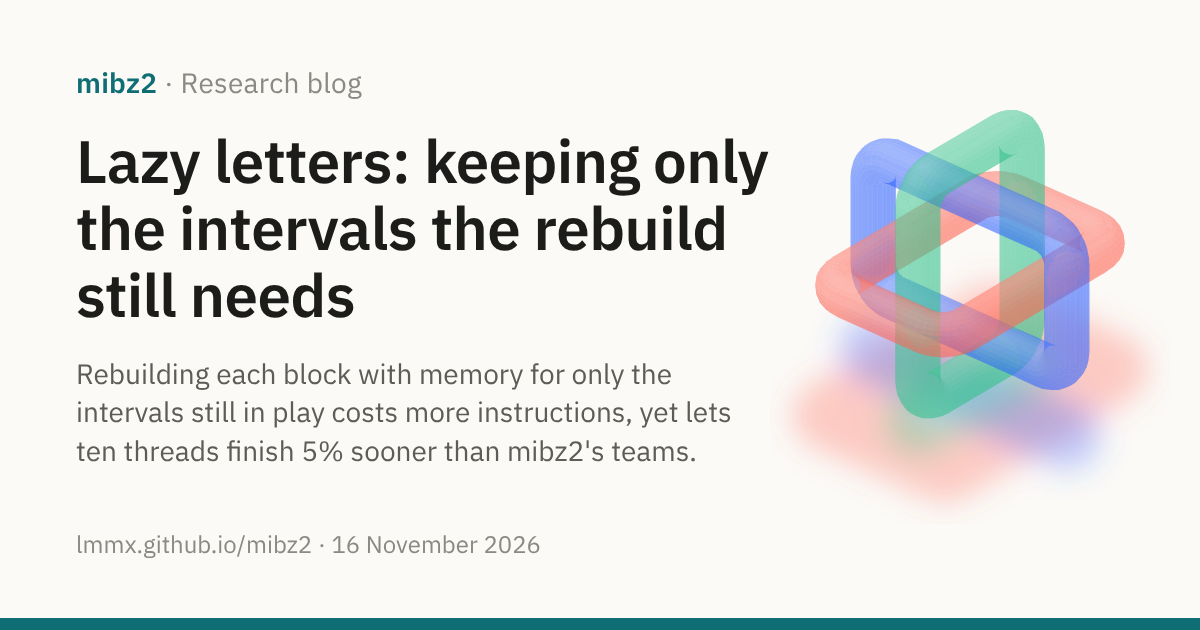
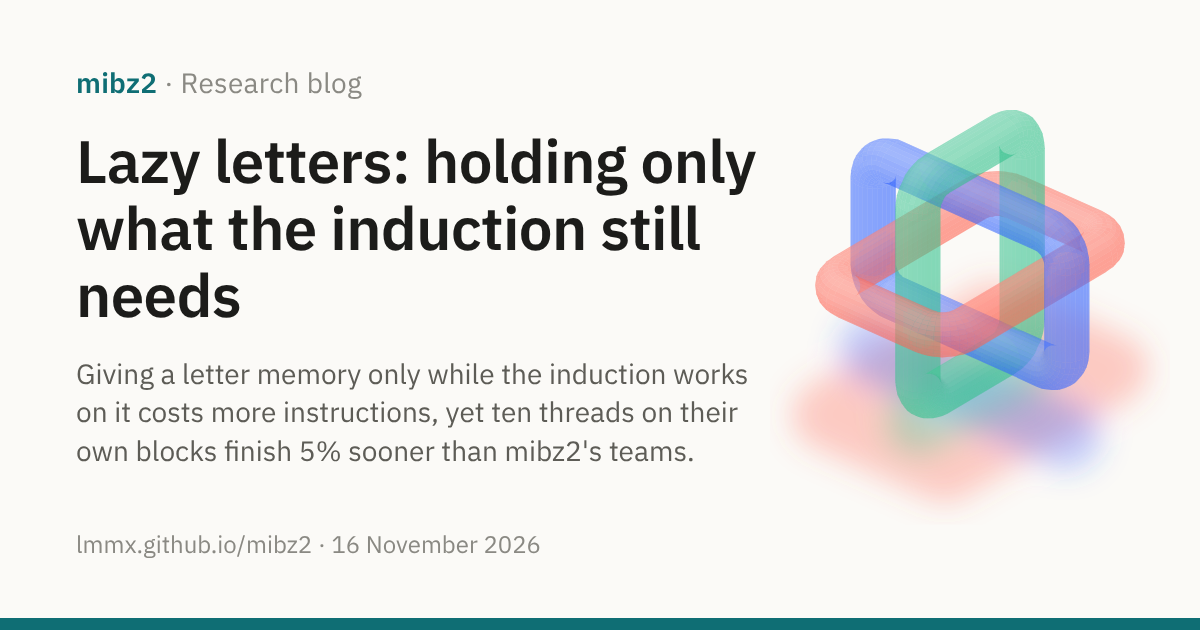
Lazy letters post: the relayed explanation's content, checked; new title and dek
Adds the two orders and their fronts, the 5-byte untouched letter and its three states
(redrawn as a site figure), the per-letter memory table with the output-buffer row, the
pool's reserved-versus-touched nuance, the cause left unisolated, and the order of steps
as the next question (0.107 r from #437; 0.077 r and 0.058 r simulated in #446).
Title and dek as amended; social card, cards.json, index and llms.txt redrawn to match.

Changed region(s): [[0.0617, 0.573, 0.6167, 0.754], [0.0617, 0.2111, 0.6475, 0.5127]]

diff --git a/docs/site/blog/2026-11-16-lazy-letters.md b/docs/site/blog/2026-11-16-lazy-letters.md
@@ -1,7 +1,7 @@
 ---
-title: "Lazy letters: keeping only the intervals the rebuild still needs"
+title: "Lazy letters: holding only what the induction still needs"
 image: assets/social/blog-2026-11-16-lazy-letters.png
-description: "Rebuilding each block with memory for only the intervals still in play costs more instructions, yet lets ten threads finish 5% sooner than mibz2's teams."
+description: "Giving a letter memory only while the induction works on it costs more instructions, yet ten threads on their own blocks finish 5% sooner than mibz2's teams."
 ---
 
 <div class="post-hero" markdown>
@@ -11,9 +11,9 @@ description: "Rebuilding each block with memory for only the intervals still in 
 [mibz2 · Research blog](index.md)
 {: .post-kicker }
 
-# Lazy letters: keeping only the intervals the rebuild still needs
+# Lazy letters: holding only what the induction still needs
 
-Rebuilding each block with memory for only the intervals still in play costs more instructions, yet lets ten threads finish 5% sooner than mibz2's teams.
+Giving a letter memory only while the induction works on it costs more instructions, yet ten threads on their own blocks finish 5% sooner than mibz2's teams.
 {: .post-dek }
 
 16 November 2026 · 11 min read · [Research result](#5-what-comes-next)
@@ -54,19 +54,36 @@ The two series differ only in what lazy letters is compared with. Below 10 threa
 
 ## 1. What does a block keep while it is rebuilt?
 
-Take ten letters of a block, part-way through the rebuild. Cells as shipped gave each of them a slot before the first step. A slot is 20 bytes in the kernel's own buffer. Cells also tracks the letters in a second order, and that costs 8 more bytes each in the output buffer. Most of those slots sit unused for most of the rebuild, because most letters are still untouched pieces of runs.
+Cells tracks the letters in two orders. The first is the order of the runs in the block. The second is the same runs sorted by byte value, keeping runs with the same byte in their original order. Each step works at the right-hand end of both orders, at what the code calls the two *fronts*. It compares the two letters there, records a *cell* (one piece of a word, added to a list of rules the writer later expands into text), and moves on. The fronts work backwards from the end, so at any moment most letters are still ahead of them, untouched.
+
+Cells as shipped gives every letter a slot before the first step. A slot is 20 bytes in the kernel's own buffer, holding the letter's length, its links and where its word is. A second slot, 8 bytes in the output buffer, holds its links in the other order. (The output buffer is free to use until the writer runs, at the very end.) Most of those slots sit unused for most of the rebuild, because most letters are still untouched pieces of runs.
+
+Lazy letters keep an untouched letter as 5 bytes in the output buffer instead. A 4-byte entry in the second order holds its length, its byte and whether the decoder's walk starts there. One more byte, in the first order, repeats its byte. That is all a step needs until a front first reaches the letter. The step itself is unchanged: the same cells, in the same order, written as the same words at the same places.
+
+<figure class="bf-fig">
+<p class="bf-title">How lazy letters keep a letter, from untouched to finished</p>
+<svg viewBox="0 0 720 304" role="img" aria-label="An untouched letter takes 5 bytes in the output buffer: a 4-byte entry holding its length, its byte and whether the walk starts there, in the second order, and 1 byte, its byte, in the first order. A letter goes from untouched (the 5-byte entry) to in play (a pair of slots from the pools, its entry pointing to them) to finished (the pair goes on a free list and is reused by the next letter reached)."><text x="0" y="16" class="bf-ts">An untouched letter, in the output buffer</text><rect x="0" y="30" width="520" height="70" rx="6" class="bf-slot"/><text x="260" y="56" class="bf-t-strong" text-anchor="middle">entry, 4 bytes</text><text x="260" y="78" class="bf-tm" text-anchor="middle">length · byte · whether the walk starts here</text><text x="260" y="94" class="bf-ttiny" text-anchor="middle">in the second order (sorted by byte)</text><rect x="528" y="30" width="130" height="70" rx="6" class="bf-slot"/><text x="593" y="56" class="bf-t-strong" text-anchor="middle">1 byte</text><text x="593" y="78" class="bf-tm" text-anchor="middle">its byte</text><text x="593" y="94" class="bf-ttiny" text-anchor="middle">in the first order</text><text x="720" y="70" class="bf-t-strong" text-anchor="end">5 B</text><path d="M0 124H720" class="bf-rule"/><text x="0" y="150" class="bf-ts">A letter’s three states</text><rect x="0" y="166" width="216" height="84" rx="6" class="bf-slot"/><text x="108" y="192" class="bf-t-strong" text-anchor="middle">Untouched</text><text x="108" y="214" class="bf-tm" text-anchor="middle">the 5-byte entry above</text><text x="108" y="234" class="bf-ttiny" text-anchor="middle">until a front first reaches it</text><path d="M220 208H242" class="bf-arrow"/><path d="M236 202L243 208L236 214" fill="none" class="bf-arrow"/><rect x="248" y="166" width="216" height="84" rx="6" class="bf-card-hi"/><text x="356" y="192" class="bf-t-strong" text-anchor="middle">In play</text><text x="356" y="214" class="bf-tm" text-anchor="middle">a pair of slots from the pools</text><text x="356" y="234" class="bf-ttiny" text-anchor="middle">its entry now points to the pair</text><path d="M468 208H490" class="bf-arrow"/><path d="M484 202L491 208L484 214" fill="none" class="bf-arrow"/><rect x="496" y="166" width="216" height="84" rx="6" class="bf-box" stroke-dasharray="4 3"/><text x="604" y="192" class="bf-t-strong" text-anchor="middle">Finished</text><text x="604" y="214" class="bf-tm" text-anchor="middle">the pair goes on the free list</text><text x="604" y="234" class="bf-ttiny" text-anchor="middle">the next letter reached reuses it</text><path d="M604 254V276H108V256" fill="none" class="bf-arrow" stroke-dasharray="4 3"/><path d="M102 262L108 254L114 262" fill="none" class="bf-arrow"/><text x="356" y="294" class="bf-ttiny" text-anchor="middle">a freed pair is handed to the next letter a front reaches (last in, first out)</text></svg>
+<figcaption>Conceptual. A letter costs 5 bytes until a front reaches it, then holds a pair of slots while it is in play. When it is finished (merged away at a step between two letters of equal length, or closed), its pair goes back on a last-in-first-out free list for the next letter a front reaches.</figcaption>
+</figure>
+
+Two facts, both in [the research journal](https://github.com/lmmx/mibz2/blob/caad2bd97e236905a15a970b3a3a945877b4316e/docs/journal/2026-11-15-lazy-letters.md), mean nothing else needs storing. First, within one byte value, the two orders list the letters in the same order. So a counter for each of the 256 byte values finds a letter's entry in the second order from its byte, with no stored map between the orders (which would cost another 4 bytes a letter). Second, a front reaches a letter first from one order only, and never reads that entry again. So the entry, once used, is overwritten with a tagged pointer to the letter's new slots, for the other front to follow when it gets there.
 
 <figure class="bf-fig">
 <p class="bf-title">What the rebuild keeps, eager and lazy</p>
 <svg viewBox="0 0 720 462" role="img" aria-label="Above, a conceptual sketch: eager Cells gives all ten intervals a slot before the first step; lazy letters give slots to three intervals the rebuild has reached, one slot has been given back, and the other six are 5-byte entries. Below, measured bytes per letter besides the output: eager 35.6 (slots 20, words 15.6); lazy 22.0 (pool 6.4, words 15.6)."><text x="0" y="16" class="bf-ts">Ten intervals of a block, part-way through the rebuild</text><text x="0" y="48" class="bf-t-strong">Eager (Cells as shipped)</text><text x="0" y="66" class="bf-tm">a slot for every interval, laid out before the first step</text><rect x="40" y="80" width="50" height="26" rx="4" class="bf-box"/><text x="65" y="98" class="bf-t" text-anchor="middle">a</text><rect x="40" y="114" width="50" height="30" rx="4" class="bf-card-hi"/><text x="65" y="134" class="bf-ttiny" text-anchor="middle">slot</text><rect x="102" y="80" width="50" height="26" rx="4" class="bf-box"/><text x="127" y="98" class="bf-t" text-anchor="middle">b</text><rect x="102" y="114" width="50" height="30" rx="4" class="bf-card-hi"/><text x="127" y="134" class="bf-ttiny" text-anchor="middle">slot</text><rect x="164" y="80" width="50" height="26" rx="4" class="bf-box"/><text x="189" y="98" class="bf-t" text-anchor="middle">c</text><rect x="164" y="114" width="50" height="30" rx="4" class="bf-card-hi"/><text x="189" y="134" class="bf-ttiny" text-anchor="middle">slot</text><rect x="226" y="80" width="50" height="26" rx="4" class="bf-box"/><text x="251" y="98" class="bf-t" text-anchor="middle">d</text><rect x="226" y="114" width="50" height="30" rx="4" class="bf-card-hi"/><text x="251" y="134" class="bf-ttiny" text-anchor="middle">slot</text><rect x="288" y="80" width="50" height="26" rx="4" class="bf-box"/><text x="313" y="98" class="bf-t" text-anchor="middle">e</text><rect x="288" y="114" width="50" height="30" rx="4" class="bf-card-hi"/><text x="313" y="134" class="bf-ttiny" text-anchor="middle">slot</text><rect x="350" y="80" width="50" height="26" rx="4" class="bf-box"/><text x="375" y="98" class="bf-t" text-anchor="middle">f</text><rect x="350" y="114" width="50" height="30" rx="4" class="bf-card-hi"/><text x="375" y="134" class="bf-ttiny" text-anchor="middle">slot</text><rect x="412" y="80" width="50" height="26" rx="4" class="bf-box"/><text x="437" y="98" class="bf-t" text-anchor="middle">g</text><rect x="412" y="114" width="50" height="30" rx="4" class="bf-card-hi"/><text x="437" y="134" class="bf-ttiny" text-anchor="middle">slot</text><rect x="474" y="80" width="50" height="26" rx="4" class="bf-box"/><text x="499" y="98" class="bf-t" text-anchor="middle">h</text><rect x="474" y="114" width="50" height="30" rx="4" class="bf-card-hi"/><text x="499" y="134" class="bf-ttiny" text-anchor="middle">slot</text><rect x="536" y="80" width="50" height="26" rx="4" class="bf-box"/><text x="561" y="98" class="bf-t" text-anchor="middle">i</text><rect x="536" y="114" width="50" height="30" rx="4" class="bf-card-hi"/><text x="561" y="134" class="bf-ttiny" text-anchor="middle">slot</text><rect x="598" y="80" width="50" height="26" rx="4" class="bf-box"/><text x="623" y="98" class="bf-t" text-anchor="middle">j</text><rect x="598" y="114" width="50" height="30" rx="4" class="bf-card-hi"/><text x="623" y="134" class="bf-ttiny" text-anchor="middle">slot</text><text x="0" y="176" class="bf-t-strong">Lazy letters</text><text x="0" y="194" class="bf-tm">an untouched interval is a 5-byte entry; a slot is taken when the rebuild reaches it</text><rect x="40" y="208" width="50" height="26" rx="4" class="bf-box"/><text x="65" y="226" class="bf-t" text-anchor="middle">a</text><rect x="40" y="242" width="50" height="30" rx="4" class="bf-box" stroke-dasharray="4 3"/><text x="65" y="262" class="bf-ttiny" text-anchor="middle">given back</text><rect x="102" y="208" width="50" height="26" rx="4" class="bf-box"/><text x="127" y="226" class="bf-t" text-anchor="middle">b</text><rect x="115" y="248" width="24" height="18" rx="3" class="bf-slot"/><text x="127" y="261" class="bf-ttiny" text-anchor="middle">5 B</text><rect x="164" y="208" width="50" height="26" rx="4" class="bf-box"/><text x="189" y="226" class="bf-t" text-anchor="middle">c</text><rect x="164" y="242" width="50" height="30" rx="4" class="bf-card-hi"/><text x="189" y="262" class="bf-ttiny" text-anchor="middle">slot</text><rect x="226" y="208" width="50" height="26" rx="4" class="bf-box"/><text x="251" y="226" class="bf-t" text-anchor="middle">d</text><rect x="239" y="248" width="24" height="18" rx="3" class="bf-slot"/><text x="251" y="261" class="bf-ttiny" text-anchor="middle">5 B</text><rect x="288" y="208" width="50" height="26" rx="4" class="bf-box"/><text x="313" y="226" class="bf-t" text-anchor="middle">e</text><rect x="301" y="248" width="24" height="18" rx="3" class="bf-slot"/><text x="313" y="261" class="bf-ttiny" text-anchor="middle">5 B</text><rect x="350" y="208" width="50" height="26" rx="4" class="bf-box"/><text x="375" y="226" class="bf-t" text-anchor="middle">f</text><rect x="350" y="242" width="50" height="30" rx="4" class="bf-card-hi"/><text x="375" y="262" class="bf-ttiny" text-anchor="middle">slot</text><rect x="412" y="208" width="50" height="26" rx="4" class="bf-box"/><text x="437" y="226" class="bf-t" text-anchor="middle">g</text><rect x="425" y="248" width="24" height="18" rx="3" class="bf-slot"/><text x="437" y="261" class="bf-ttiny" text-anchor="middle">5 B</text><rect x="474" y="208" width="50" height="26" rx="4" class="bf-box"/><text x="499" y="226" class="bf-t" text-anchor="middle">h</text><rect x="474" y="242" width="50" height="30" rx="4" class="bf-card-hi"/><text x="499" y="262" class="bf-ttiny" text-anchor="middle">slot</text><rect x="536" y="208" width="50" height="26" rx="4" class="bf-box"/><text x="561" y="226" class="bf-t" text-anchor="middle">i</text><rect x="549" y="248" width="24" height="18" rx="3" class="bf-slot"/><text x="561" y="261" class="bf-ttiny" text-anchor="middle">5 B</text><rect x="598" y="208" width="50" height="26" rx="4" class="bf-box"/><text x="623" y="226" class="bf-t" text-anchor="middle">j</text><rect x="611" y="248" width="24" height="18" rx="3" class="bf-slot"/><text x="623" y="261" class="bf-ttiny" text-anchor="middle">5 B</text><path d="M0 300H720" class="bf-rule"/><text x="0" y="326" class="bf-ts">Bytes per letter that the rebuild touches, besides the output</text><text x="0" y="360" class="bf-t">Eager</text><g><title>slots: 20 B per letter</title><rect x="150.0" y="342" width="238.0" height="26" rx="3" style="fill:var(--bf-amber)"/></g><text x="156.0" y="360" class="bf-ttiny" style="fill:var(--bf-surface)">slots 20</text><g><title>words: 15.6 B per letter</title><rect x="390.0" y="342" width="185.2" height="26" rx="3" style="fill:var(--bf-steel)"/></g><text x="396.0" y="360" class="bf-ttiny" style="fill:var(--bf-surface)">words 15.6</text><text x="583.2" y="360" class="bf-t-strong">35.6 B</text><text x="0" y="398" class="bf-t">Lazy letters</text><g><title>pool: 6.4 B per letter</title><rect x="150.0" y="380" width="74.8" height="26" rx="3" style="fill:var(--bf-green)"/></g><text x="156.0" y="398" class="bf-ttiny" style="fill:var(--bf-surface)">pool 6.4</text><g><title>words: 15.6 B per letter</title><rect x="226.8" y="380" width="185.2" height="26" rx="3" style="fill:var(--bf-steel)"/></g><text x="232.8" y="398" class="bf-ttiny" style="fill:var(--bf-surface)">words 15.6</text><text x="420.0" y="398" class="bf-t-strong">22.0 B</text><text x="0" y="432" class="bf-tm">The words (arena and rules, 15.6 B) are the same in both. In the output buffer, eager keeps 8 B a letter;</text><text x="0" y="450" class="bf-tm">lazy letters keep the 5-byte entry and 2.5 B of a second pool. Bars start at zero.</text></svg>
-<figcaption>Above: conceptual, ten letters at one moment. Below: measured by instruction-level profiling on one thread over the 196 Wikidata blocks Cells handles (11,090,867 letters), per letter, besides the output buffer. The pool's share is its peak, the median over blocks.</figcaption>
+<figcaption>Above: conceptual, ten letters at one moment. Below: counted on one thread over the 196 Wikidata blocks Cells handles (11,090,867 letters), per letter, besides the output buffer. The lazy pool's bytes follow from its peak, the median over blocks.</figcaption>
 </figure>
 
-Lazy letters keep an untouched letter as 5 bytes in the output buffer. A 4-byte entry holds its length, its byte and whether the walk starts there. One more byte repeats its byte, in the other order. That is all a step needs until it first reaches the letter. Two facts make it enough, both shown in [the research journal](https://github.com/lmmx/mibz2/blob/caad2bd97e236905a15a970b3a3a945877b4316e/docs/journal/2026-11-15-lazy-letters.md). Within one byte value, the two orders list the letters in the same order, so a 256-entry counter finds a letter's entry from its byte with no stored map. And a step reaches a letter first from one order only. Once used, its entry can be overwritten with the number of the letter's new slot, for the other order to find.
+**The count.** Over Wikidata's 196 blocks, the pool peaks at a median of 0.318 of the letters, and at 0.295 to 0.337 on single blocks. That equals the width the earlier post counted for Cells' right-end order, 0.318, to three digits: the pool holds a pair for each letter the fronts have reached that is still alive. So the memory the kernel holds now follows the width, not the letter count. Per letter:
 
-When a step first reaches a letter, the letter takes a pair of slots from a pool. A pair goes back on a last-in-first-out free list when its letter is closed. The step itself is unchanged: the same merges, in the same order, writing the same words at the same places.
+| Bytes per letter, Wikidata | Shipped | Lazy letters |
+|---|--:|--:|
+| Slots in the kernel's buffer | 20.0 | 6.4 |
+| Words (the rules and their store) | 15.6 | 15.6 |
+| **Total besides the output** | **35.6** | **22.0** |
+| Inside the output buffer, before the writer | 8.0 | 7.5 |
 
-**The count.** Over Wikidata's 196 blocks, the pool peaks at a median of 0.318 of the letters, and at 0.295 to 0.337 on single blocks. That equals the width the earlier post counted for Cells' order, 0.318, to three digits. So the memory the kernel holds now follows the width, not the letter count. The slots' 20 bytes a letter become 6.4. The words are the same in both kernels, so the total besides the output falls from 35.6 to 22.0 bytes a letter. Every block decodes to the same bytes as before.
+The 6.4 bytes are the 20-byte slots of the 0.318 of letters in play at the peak, about 20 × 0.318. Inside the output buffer, lazy letters keep the 5-byte entries and, the same way, about 8 × 0.318 = 2.5 bytes of second-order slots. The pools have room for a slot for every letter, so the memory set aside is not smaller; what falls is the memory handed out and touched. Every block decodes to the same bytes as before.
 
 ## 2. What does keeping less cost?
 
@@ -80,7 +97,7 @@ The same count says what it costs. Per letter, on one thread:
 
 The first stage gets cheaper, since it writes 5 bytes a letter instead of a slot. The induction gets much dearer, for two reasons. Every letter is now visited twice as each order is read, once untouched and once after it has a slot, and each visit tests which it is. The shipped kernel reads a slot each time with no test. And the lazy loop holds about 30 values at once, against the shipped loop's 19. That is more than the processor has registers for, so some spill to the stack and are reloaded.
 
-These are instruction counts, not times. Before any timing, the kernel was set a limit of 10% more instructions, and at +28% it failed it. It was kept as a recorded result, with the open question of whether 38% less memory would outweigh the instructions with ten threads sharing one cache. Only a clock on a 10-core machine could answer that.
+These are instruction counts, not times. A first build cost 36% more; a leaner one, which takes slots only in the branches that need them, brought that to 28%. Before any timing, the kernel was set a limit of 10% more instructions, and at +28% it failed it. It was kept as a recorded result, with the open question of whether 38% less memory would outweigh the instructions with ten threads sharing one cache. Only a clock on a 10-core machine could answer that.
 
 ## 3. What happened on ten cores?
 
@@ -109,7 +126,7 @@ On one thread, the cache holds a block's working state comfortably, and the proc
 
 With a block per thread, each thread's state competes for the one shared cache. A rough calculation shows the scale. A Wikidata block that Cells handles has about 56,600 letters on average. At 35.6 bytes a letter, the rebuild touches about 2.0 MB besides its output. Ten threads together touch about 20 MB, the size of the i9's whole last-level cache. At 22.0 bytes a letter, it is about 1.2 MB a block and 12 MB for ten. This is arithmetic on averages, not a measurement of the cache. The output buffers and the decoder's other stages also use the cache, and not all of a block's state is in use at the same moment.
 
-The measurement that supports contention is the pattern across thread counts. If the extra instructions were the only effect, lazy letters' ratio against today's kernel would be about the same at every count. Instead it falls as threads are added, from 1.084 at 4 threads to 0.919 at 10 (the amber marks in the first figure). The rule asked whether the 10-thread ratio was below the 4-thread ratio round by round. It was in all ten paired rounds (sign test, p = 0.002). At 12 threads, where hardware threads share cores, the ratio against today's kernel falls further, to 0.852. Cache misses were not counted in this run. So this is evidence from timing that memory per core costs time at high thread counts, not a direct observation of the cache.
+The measurement that supports contention is the pattern across thread counts. If the extra instructions were the only effect, lazy letters' ratio against today's kernel would be about the same at every count. Instead it falls as threads are added, from 1.084 at 4 threads to 0.919 at 10 (the amber marks in the first figure). The rule asked whether the 10-thread ratio was below the 4-thread ratio round by round. It was in all ten paired rounds (sign test, p = 0.002). At 12 threads, where hardware threads share cores, the ratio against today's kernel falls further, to 0.852. Cache misses were not counted in this run. So this is evidence from timing that memory per core costs time at high thread counts, not a direct observation of the cache. It doesn't say which part of the memory system is the limit: the cache's capacity, the misses themselves, or the bandwidth to main memory. Hardware counters, or runs designed to separate them, would.
 
 ## 5. What comes next?
 
@@ -117,7 +134,7 @@ The measurement that supports contention is the pattern across thread counts. If
 
 **A production version.** The plan is to use lazy letters for one block per thread [from 8 threads up, and today's kernel below](https://github.com/lmmx/mibz2/issues/145#issuecomment-6903395401), chosen by one constant in the decoder's thread plan. The old kernel stays selectable, so the two can be compared at the same commit. The rule for both thresholds is fixed before the run. Lazy letters take over at the lowest thread count from which they beat today's kernel at every count measured, interval wholly below 1. One block per thread replaces the teams at every count from 10 up to the highest where it beats the best team arm the same way. The run will measure 4 to 20 threads on the i9. A move into counts above the 10 cores, where threads share a core, goes back to the maintainer with the figures.
 
-**Narrower still.** The width post found that taking the steps that need no new bookkeeping first, the *free* steps, would bring the peak from 0.32 of the runs to about 0.11. Lazy letters' pool follows the width of whatever order it runs, so the [next question](https://github.com/lmmx/mibz2/issues/145#issuecomment-6903426694) is whether that order inside the lazy kernel cuts the pool's peak by at least a quarter. If it does, it will be built as a further arm. The same run will also measure how much slower a block is at 10 threads than at 1, for each kernel. That says how much of the high-thread penalty memory still accounts for.
+**A better order of steps.** Lazy letters still take Cells' order, always at the right-hand end, and the pool's peak is that order's width. Other orders build the same rules while finishing letters sooner. The [order census](https://github.com/lmmx/mibz2/pull/437) found that taking the steps that need no new bookkeeping first, the *free* steps, brings the median width on Wikidata from 0.318 to 0.107 of the runs. Newer simulations, [in review](https://github.com/lmmx/mibz2/pull/446), choose each step by how much it changes the width. One that still prefers free steps peaks at 0.077 of the runs, and one that puts the change in width first at 0.058. These are counts from a simulator, not a kernel. They also have a cost the counts leave out: lazy letters read the untouched letters as two streams from the right-hand end, and any other order needs letters that neither front has reached yet. So [the next question](https://github.com/lmmx/mibz2/issues/145#issuecomment-6903426694) is what replaces the streams, and whether a better order cuts the pool's peak by at least a quarter. If it does, it will be built and timed. The same run will also measure how much slower a block is at 10 threads than at 1, for each kernel, which says how much of the high-thread penalty memory still accounts for.
 
 **What changes in how memory cuts are judged.** Lazy letters failed their own instruction limit and still won where it matters for many threads. Earlier memory cuts were rejected because they cost instructions at 1 to 4 threads. From now on a memory cut is judged by its peak live memory per block and by wall time at 8 to 10 threads.
 

diff --git a/docs/site/blog/index.md b/docs/site/blog/index.md
@@ -8,7 +8,7 @@ What mibz2's experiments are finding, and where they go next. The evidence behin
 post is in the [journals](../background/journals.md) and the pull requests they link.
 
 <div class="post-list">
-<a class="post-card" href="2026-11-16-lazy-letters.md"><img src="../assets/social/blog-2026-11-16-lazy-letters.png" alt="" loading="lazy"><span class="post-card-text"><span class="post-card-date">16 November 2026 · Research result</span><span class="post-card-title">Lazy letters: keeping only the intervals the rebuild still needs</span><span class="post-card-dek">Rebuilding each block with memory for only the intervals still in play costs more instructions, yet lets ten threads finish 5% sooner than mibz2's teams.</span></span></a>
+<a class="post-card" href="2026-11-16-lazy-letters.md"><img src="../assets/social/blog-2026-11-16-lazy-letters.png" alt="" loading="lazy"><span class="post-card-text"><span class="post-card-date">16 November 2026 · Research result</span><span class="post-card-title">Lazy letters: holding only what the induction still needs</span><span class="post-card-dek">Giving a letter memory only while the induction works on it costs more instructions, yet ten threads on their own blocks finish 5% sooner than mibz2's teams.</span></span></a>
 <a class="post-card" href="2026-11-15-free-closure.md"><img src="../assets/social/blog-2026-11-15-free-closure.png" alt="" loading="lazy"><span class="post-card-text"><span class="post-card-date">15 November 2026 · Research result</span><span class="post-card-title">The free closure of an induction: where free steps come to rest</span><span class="post-card-dek">The steps that cost mibz2 no bookkeeping can be taken in any order and still meet at one end point, now proved to belong to the block itself.</span></span></a>
 <a class="post-card" href="2026-11-15-induction-width.md"><img src="../assets/social/blog-2026-11-15-induction-width.png" alt="" loading="lazy"><span class="post-card-text"><span class="post-card-date">15 November 2026 · Research in progress</span><span class="post-card-title">The width of an induction: how much it must hold at once</span><span class="post-card-dek">Taking the steps that cost no bookkeeping first would let mibz2 rebuild a block while keeping about a third as much in memory at its busiest moment.</span></span></a>
 <a class="post-card" href="2026-11-15-bottom-slots.md"><img src="../assets/social/blog-2026-11-15-bottom-slots.png" alt="" loading="lazy"><span class="post-card-text"><span class="post-card-date">15 November 2026 · Research result</span><span class="post-card-title">Removing duplicated interval lengths and text references</span><span class="post-card-dek">mibz2 tracks each run of equal bytes in two orders, and a run's entry in the second shrinks from 20 bytes to 8 by pointing to the first.</span></span></a>
